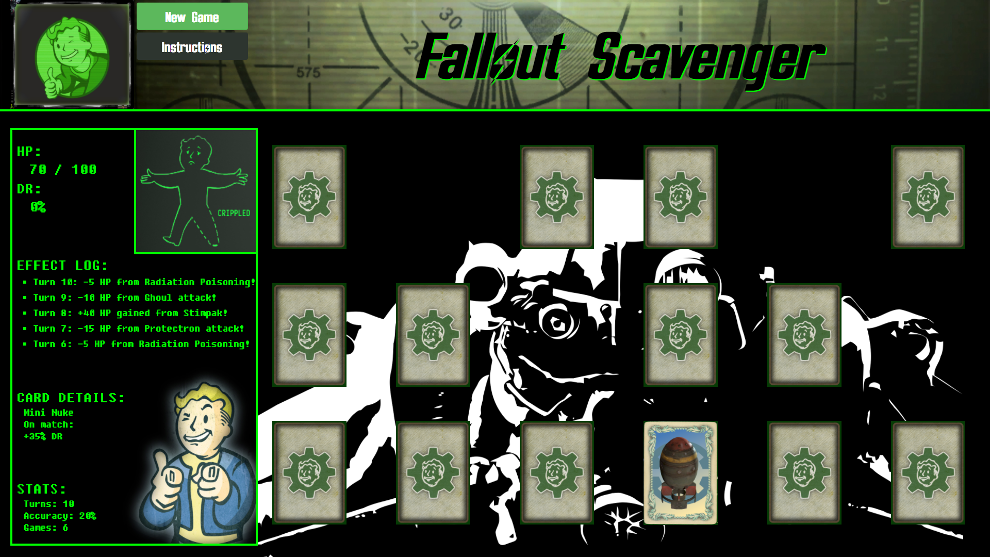
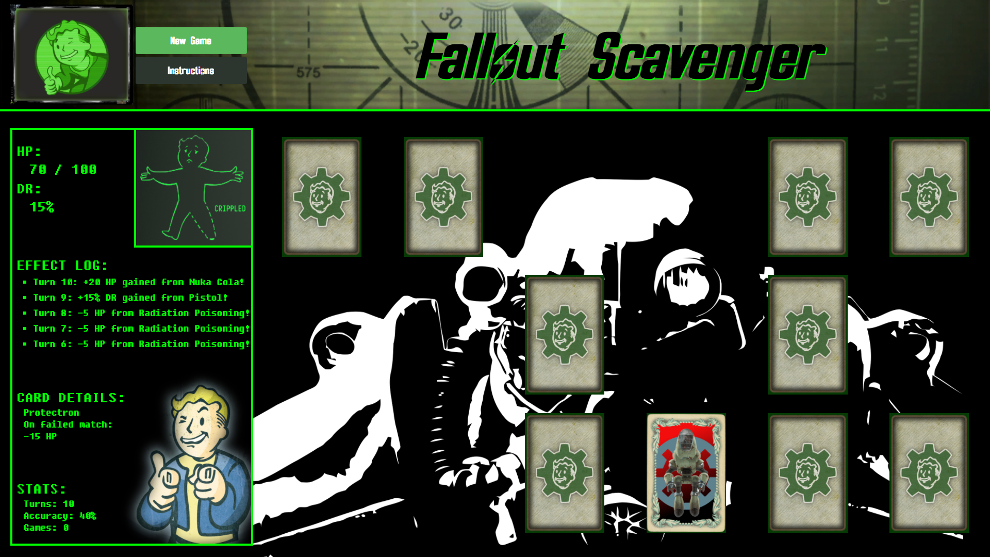
responsiveness

diff --git a/main.js b/main.js
@@ -16,7 +16,7 @@ var accuracy = 0;
 $(document).ready(function(){
     audioHandler = new AudioHandler();
 
-    //size card containers
+    //card container size
     if($(window).width()/14>$(window).height()/7){
         $(".cardContainer")
             .css("width", $(window).width()/14)
@@ -27,6 +27,15 @@ $(document).ready(function(){
             .css("width", $(window).height()/7)
             .css("height", $(window).height()/4.66);
     }
+
+    //health img container size
+    var healthImgWidth = $("#healthImgContainer").width();
+    var healthImgHeight = $("#healthImgContainer").height();
+    var smallestHealthImgSize = healthImgWidth;
+    if (healthImgHeight < smallestHealthImgSize){
+        smallestHealthImgSize = healthImgHeight;
+    }
+    $("#healthImgContainer").css("width", smallestHealthImgSize).css("height", smallestHealthImgSize);
 
     //apply click handlers
     $(".cardContainer").on("click", handleClick);
@@ -38,6 +47,7 @@ $(document).ready(function(){
 });
 
 $(window).resize(function(){
+    //card container size
     if($(window).width()/14>$(window).height()/7){
         $(".cardContainer")
             .css("width", $(window).width()/14)
@@ -48,6 +58,18 @@ $(window).resize(function(){
             .css("width", $(window).height()/7)
             .css("height", $(window).height()/4.66);
     }
+
+    //health img container size
+    $("#healthImgContainer").css("width", "50%").css("height", "32%");
+    var healthImgWidth = $("#healthImgContainer").width();
+    var healthImgHeight = $("#healthImgContainer").height();
+    var smallestHealthImgSize = healthImgWidth;
+    if (healthImgHeight < smallestHealthImgSize){
+        smallestHealthImgSize = healthImgHeight;
+    }
+    $("#healthImgContainer").css("width", smallestHealthImgSize).css("height", smallestHealthImgSize);
+
+    updateEffectList();
 });
 
 function distributeCardFronts(){
@@ -305,6 +327,14 @@ function effect_useAid(card){
 }
 
 function updateEffectList(){
+    //reset effect messages
+    for(var i = 1; i <=5; i++){
+        if(effectMessages[effectMessages.length-i] !== ""){
+            let li = "#effect"+i;
+            $(li).text("").css("list-style", "none");
+        }
+    }
+    //determine how many effect messages to display
     let numOfMessages = 5;
     if($(window).width() <= 1800){
         numOfMessages = 3;
@@ -312,7 +342,7 @@ function updateEffectList(){
     if($(window).width() <= 980){
         numOfMessages = 2;
     }
-
+    //display effect messages
     for(var i = 1; i <=numOfMessages; i++){
         if(effectMessages[effectMessages.length-i] !== ""){
             let li = "#effect"+i;
@@ -320,6 +350,8 @@ function updateEffectList(){
         }
     }
 }
+
+
 
 function checkWin(){
     if(matchCounter === 9){

diff --git a/style.css b/style.css
@@ -68,23 +68,25 @@ header>#leftHeader{
 header>#leftHeader>img{
     display:inline-block;
     position:relative;
-    width: 12vw;
-    height:9.6vw;
+    width: 22vmin;
+    height:18vmin;
     top:50%;
     transform:translateY(-50%);
 }
 
 header>#leftHeader>#buttonContainer{
+    position:relative;
+    top:8%;
     display:inline-block;
     width:45%;
-    height:100%;
+    height:70%;
 }
 
 header>#leftHeader>#buttonContainer>button{
-    height:25%;
+    height:50%;
     width:100%;
     margin:5px 0 0 5px;
-    font-size:1.5vw;
+    font-size: 22px;
 }
 
 header>#leftHeader>#buttonContainer>button#instructionsButton{
@@ -153,8 +155,11 @@ background-position: right bottom;
 }
 #gameInfo>#healthContainer>#healthImgContainer{
     display:inline-block;
+    position: absolute;
+    right:0;
     width:50%;
-    height:12vw;
+    height:32%;
+    max-height: 33%;
     border-bottom: 4px solid #00ff00;
     border-left: 4px solid #00ff00;
     background-image: url("images/health_100.png");
@@ -246,27 +251,9 @@ background-position: right bottom;
     #gameInfo h3{
         font-size: 2vmin;
     }
-}
-
-@media screen and (max-width: 980px){
-    .modal-content>.modal-header{
-        font-size: 3.25vmin;
-    }
-    .modal-content{
-        font-size: 3.25vmin;
-    }
-    #gameInfo>#effects{
-        font-size: 2.6vmin;
-    }
-    #gameInfo h2{
-        font-size: 3.25vmin;
-    }
-    #gameInfo h3{
-        font-size: 2.6vmin;
-    }
-    header>#leftHeader>#buttonContainer>button{
-        height: 44%;
-        font-size: 22px;
+    header>#leftHeader>#buttonContainer{
+        height: 90%;
+        top:0;
     }
 }
 

diff --git a/index.html b/index.html
@@ -13,6 +13,7 @@
         <title>Fallout Scavenger</title>
     </head>
     <body>
+        <div id="wrapper">
         <!--Screen Size Warnings-->
         <div class="mobileVerticalMsg text-center">
             <h1>
@@ -189,6 +190,7 @@
                     </div>
                 </div>
             </div>
+        </div>
         </div>
     </body>
 </html>
